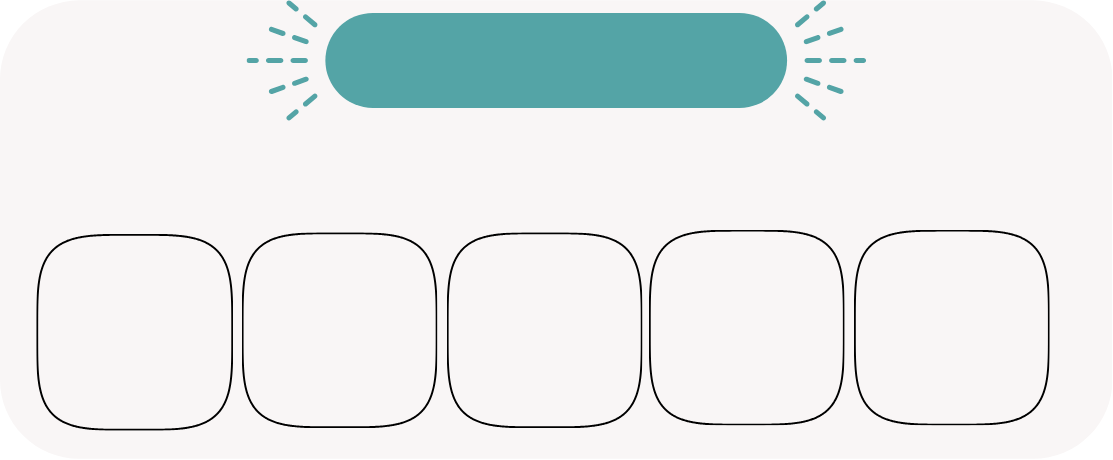
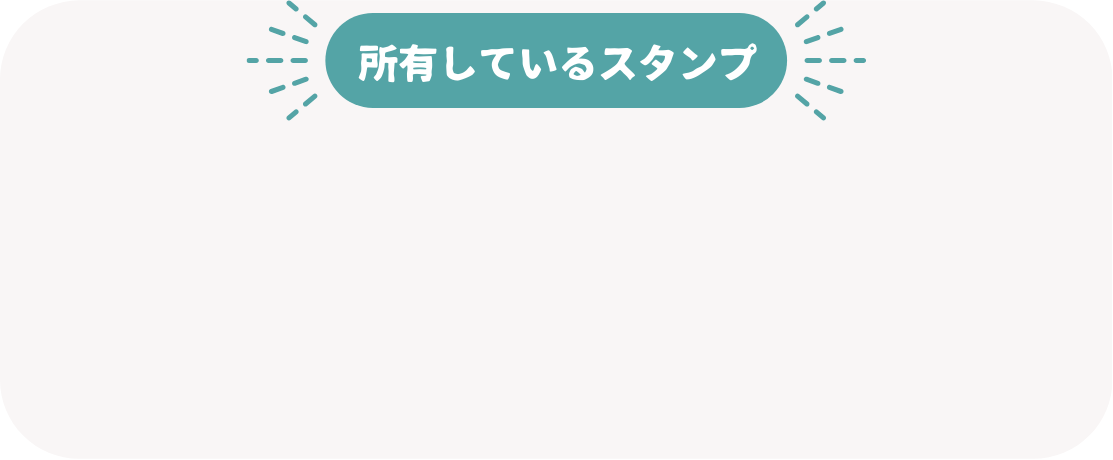
マイページのフレーム画像を変更

diff --git a/frontend/src/app/mypage/page.tsx b/frontend/src/app/mypage/page.tsx
@@ -205,9 +205,6 @@ export default function MyPage() {
             height={1000}
             className="z-0"
           />
-          <h3 className="absolute top-7 left-1/2 transform -translate-x-1/2 text-white text-2xl font-bold z-10">
-            所有しているバッジ
-          </h3>
 
           {/* スタンプ画像 */}
           <div className="absolute inset-0 flex items-center justify-center z-10 mt-32 -translate-x-8 -translate-y-4">
